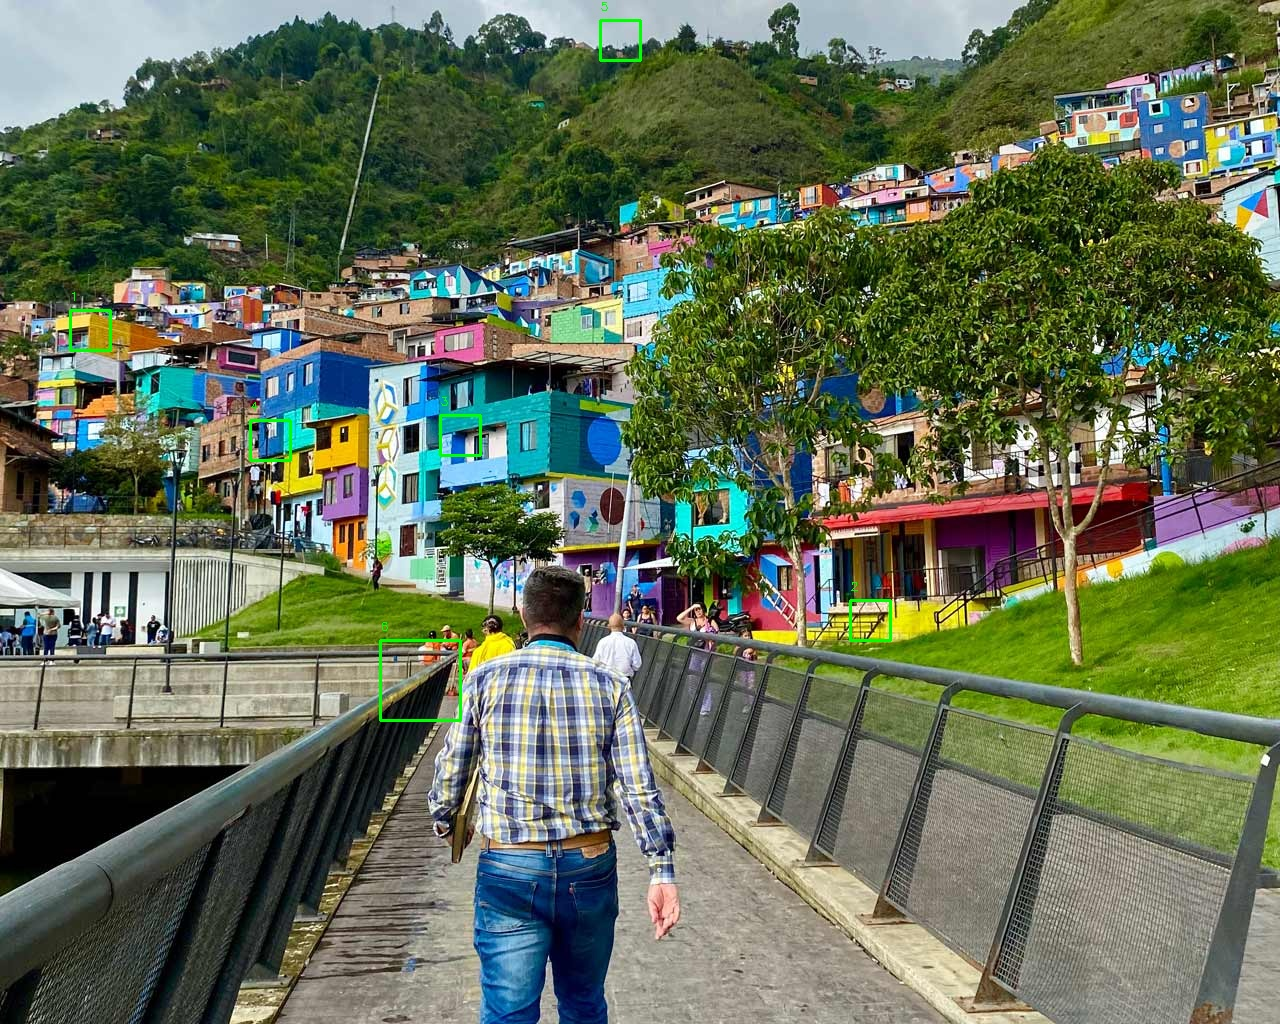
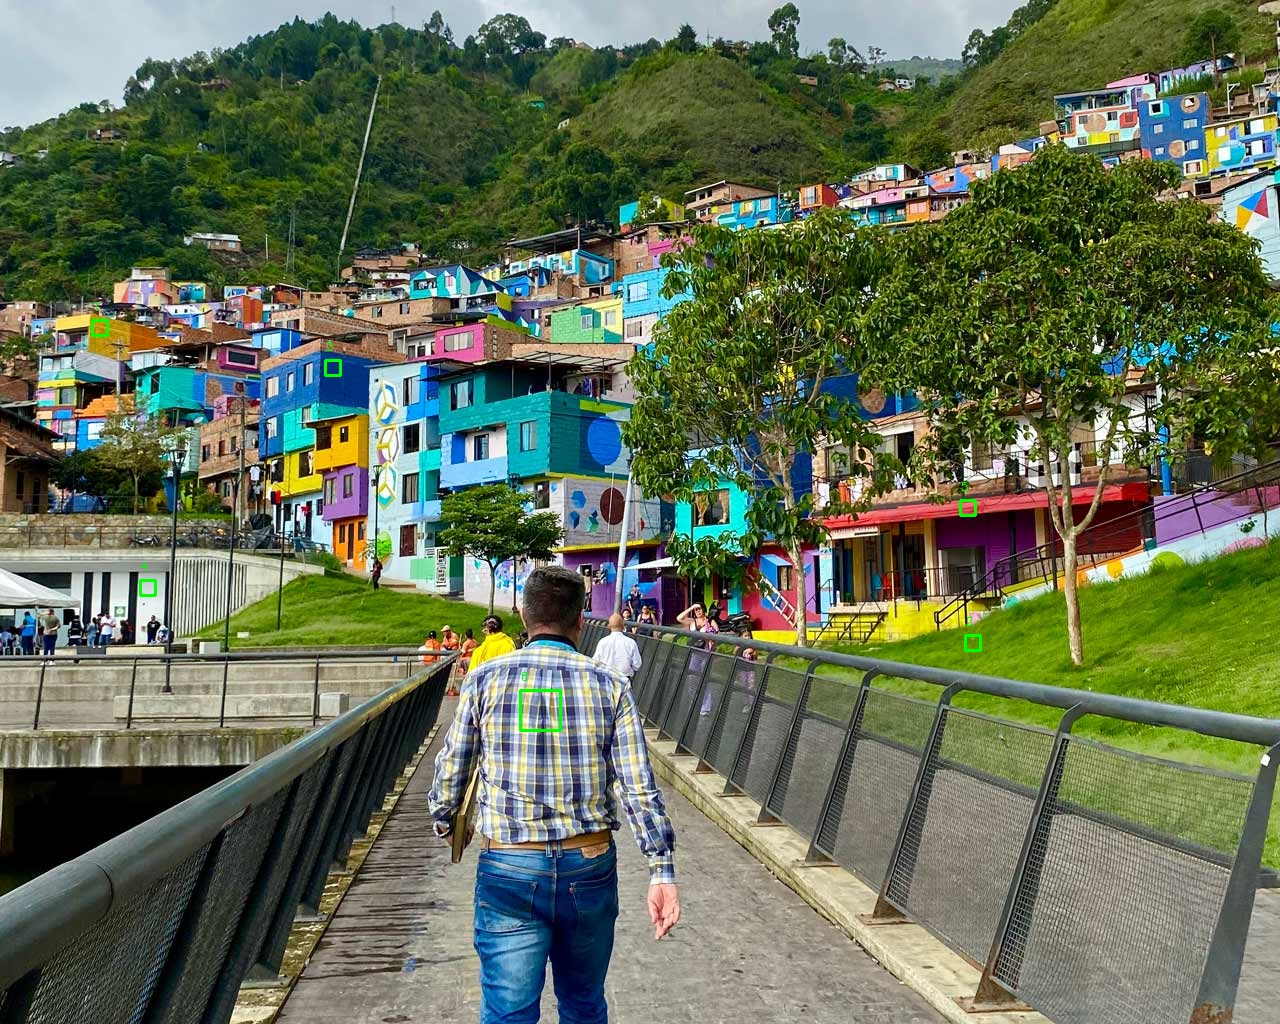
changes colors

diff --git a/CV_GuideOne/challenge_3_colors/main.py b/CV_GuideOne/challenge_3_colors/main.py
@@ -5,7 +5,6 @@ import numpy as np
 
 
 class ColorChallenge:
-    """Clase para analizar regiones cromáticas en una imagen."""
 
     def __init__(self, image_name="original.jpg"):
         self.current_dir = os.path.dirname(os.path.abspath(__file__))
@@ -18,7 +17,6 @@ class ColorChallenge:
             os.makedirs(self.assets_path)
 
     def load_image(self):
-        """Carga la imagen y muestra sus dimensiones."""
         self.image = cv2.imread(self.image_path)
         if self.image is None:
             raise FileNotFoundError(f"No se encontró la imagen en {self.image_path}")
@@ -28,22 +26,18 @@ class ColorChallenge:
         self.output_image = self.image.copy()
 
     def analyze_regions(self):
-        """
-        Define, analiza y dibuja las 6 regiones de interés (ROI).
-        Formato de ROI: (x_inicio, y_inicio, ancho, alto)
-        """
         rois = {
-            "Region 1 (Rojo)": (70, 310, 40, 40),
+            "Region 1 (Amarillo)": (92, 320, 15, 15),
 
-            "Region 2 (Verde)": (850, 600, 40, 40),
+            "Region 2 (Verde)": (965, 635, 15, 15),
 
-            "Region 3 (Azul)": (440, 415, 40, 40),
+            "Region 3 (Azul)": (325, 360, 15, 15),
 
-            "Region 4 (Amarillo)": (250, 420, 40, 40),
+            "Region 4 (Blanco)": (140, 580, 15, 15),
 
-            "Region 5 (Blanco)": (600, 20, 40, 40),
+            "Region 5 (Rojo)": (960, 500, 15, 15),
 
-            "Region 6 (Mixta)": (380, 640, 80, 80)
+            "Region 6 (Mixta)": (520, 690, 40, 40)
         }
 
         print("\n" + "=" * 60)
